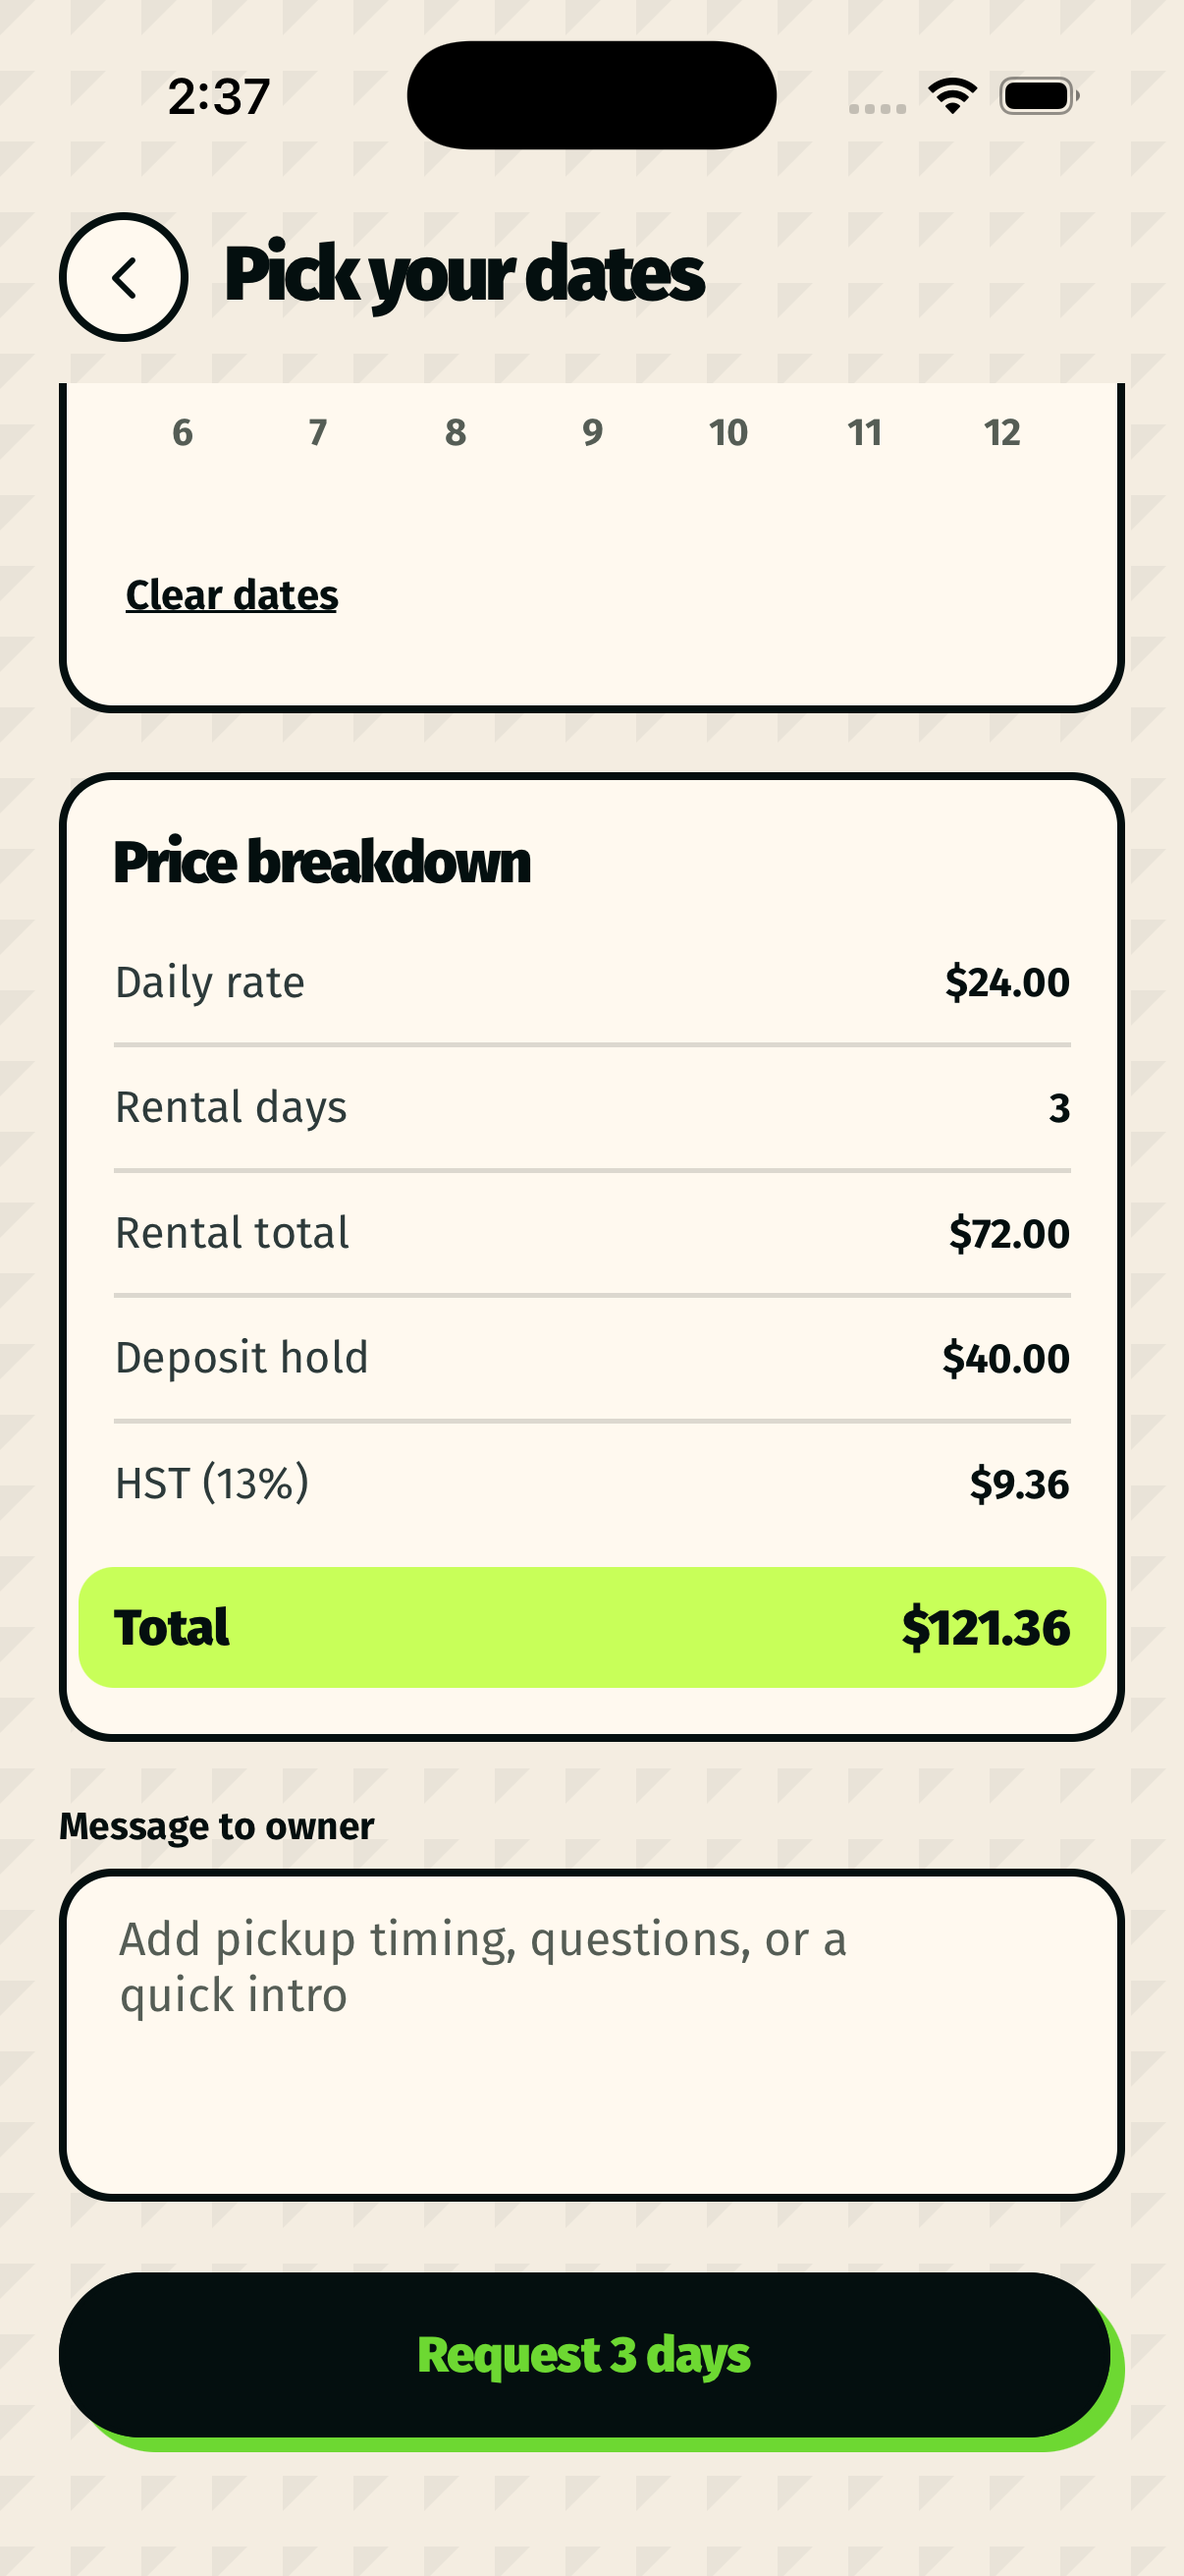
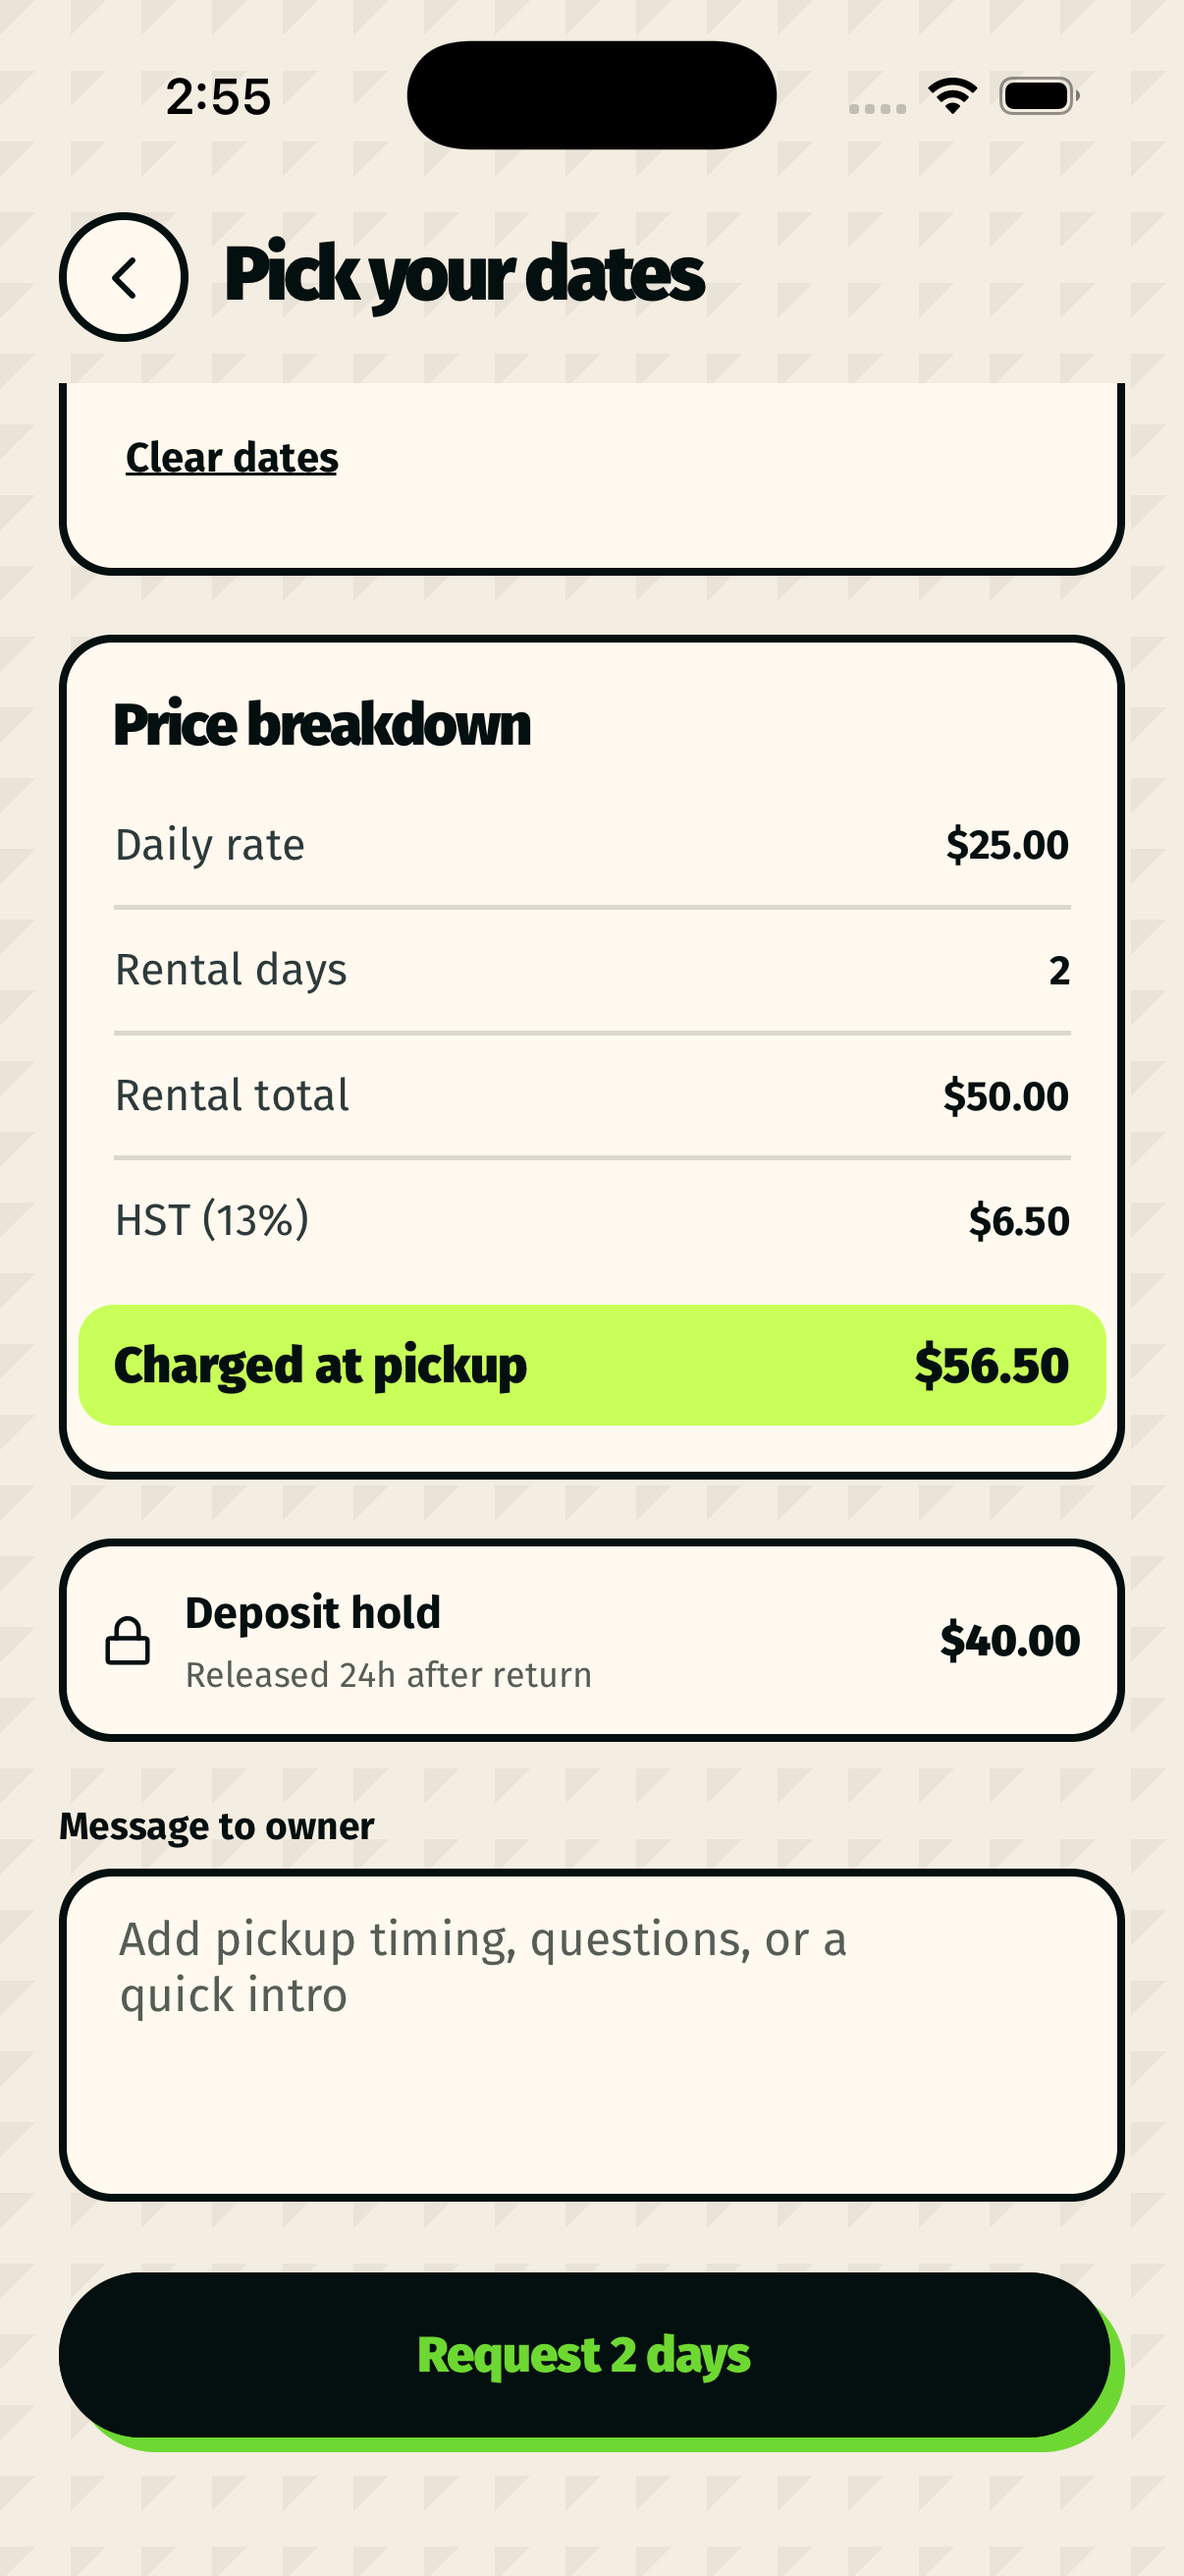
design: pin listing nav; split deposit from request total
Listing detail: back/share/photo counter move to a bar pinned above the
scroll view (taps can't reach the hero photo); it fades to a surface
background with an ink border once the hero scrolls away (Animated
scroll value via Screen's new scrollY prop). Request: the breakdown
totals rent + HST as "Charged at pickup", like Checkout; the deposit
is its own row and no longer added in. DEPOSIT_HOLD_HOURS now lives in
@zoink/shared; the backend re-exports it and Pay/Request import it.

diff --git a/frontend/src/screens/ListingDetailScreen.tsx b/frontend/src/screens/ListingDetailScreen.tsx
@@ -1,7 +1,8 @@
-import React, { useCallback, useEffect, useState } from 'react'
+import React, { useCallback, useEffect, useRef, useState } from 'react'
 import {
   ActivityIndicator,
   Alert,
+  Animated,
   FlatList,
   Image,
   Pressable,
@@ -63,6 +64,7 @@ export default function ListingDetailScreen() {
   const [loading, setLoading] = useState(true)
   const [toggling, setToggling] = useState(false)
   const [activeImg, setActiveImg] = useState(0)
+  const scrollY = useRef(new Animated.Value(0)).current
 
   const isOwner = listing?.ownerId === user?.id
 
@@ -215,31 +217,47 @@ export default function ListingDetailScreen() {
         </View>
       )}
 
-      <View style={[styles.heroControls, { top: insets.top + space.sm }]} pointerEvents="box-none">
-        <IconButton
-          accessibilityLabel="Go back"
-          onPress={() => {
-            Haptics.impactAsync(Haptics.ImpactFeedbackStyle.Light).catch(() => {})
-            nav.goBack()
-          }}
-        >
-          <Feather name="chevron-left" size={24} color={colors.ink} />
-        </IconButton>
-        <View style={styles.heroRight} pointerEvents="box-none">
-          {photos.length > 1 ? (
-            <Badge label={`${activeImg + 1} of ${photos.length} photos`} variant="surface" size={13} />
-          ) : null}
+    </View>
+  )
+
+  // Back/share stay pinned above the scroll. Over the photo the bar is
+  // transparent; once the hero has scrolled away it fades to a surface
+  // background with an ink border so the buttons stay legible over text.
+  const barHeight = insets.top + space.sm + 44 + space.sm
+  const barBackground = scrollY.interpolate({
+    inputRange: [heroHeight - barHeight - 40, heroHeight - barHeight],
+    outputRange: [0, 1],
+    extrapolate: 'clamp',
+  })
+
+  const navBar = (
+    <View style={[styles.navBar, { height: barHeight }]} pointerEvents="box-none">
+      <Animated.View pointerEvents="none" style={[styles.navBarBackground, { opacity: barBackground }]} />
+        <View style={[styles.navRow, { top: insets.top + space.sm }]} pointerEvents="box-none">
           <IconButton
-            accessibilityLabel="Share this listing"
+            accessibilityLabel="Go back"
             onPress={() => {
               Haptics.impactAsync(Haptics.ImpactFeedbackStyle.Light).catch(() => {})
-              handleShare()
+              nav.goBack()
             }}
           >
-            <Feather name="share" size={18} color={colors.ink} />
+            <Feather name="chevron-left" size={24} color={colors.ink} />
           </IconButton>
+          <View style={styles.heroRight} pointerEvents="box-none">
+            {photos.length > 1 ? (
+              <Badge label={`${activeImg + 1} of ${photos.length} photos`} variant="surface" size={13} />
+            ) : null}
+            <IconButton
+              accessibilityLabel="Share this listing"
+              onPress={() => {
+                Haptics.impactAsync(Haptics.ImpactFeedbackStyle.Light).catch(() => {})
+                handleShare()
+              }}
+            >
+              <Feather name="share" size={18} color={colors.ink} />
+            </IconButton>
+          </View>
         </View>
-      </View>
     </View>
   )
 
@@ -259,7 +277,8 @@ export default function ListingDetailScreen() {
   ) : undefined
 
   return (
-    <Screen edgeToEdgeTop contentStyle={styles.screenContent} footer={footer}>
+    <View style={styles.root}>
+    <Screen edgeToEdgeTop scrollY={scrollY} contentStyle={styles.screenContent} footer={footer}>
       {hero}
 
       <View style={styles.body}>
@@ -354,6 +373,8 @@ export default function ListingDetailScreen() {
         )}
       </View>
     </Screen>
+    {navBar}
+    </View>
   )
 }
 
@@ -375,7 +396,22 @@ const styles = StyleSheet.create({
   noPhotoThumb: {
     borderRadius: 30,
   },
-  heroControls: {
+  root: {
+    flex: 1,
+  },
+  navBar: {
+    position: 'absolute',
+    top: 0,
+    left: 0,
+    right: 0,
+  },
+  navBarBackground: {
+    ...StyleSheet.absoluteFillObject,
+    backgroundColor: colors.surface,
+    borderBottomWidth: border.base,
+    borderBottomColor: colors.ink,
+  },
+  navRow: {
     position: 'absolute',
     left: space.xxl,
     right: space.xxl,

diff --git a/frontend/src/screens/BookingRequestScreen.tsx b/frontend/src/screens/BookingRequestScreen.tsx
@@ -6,6 +6,7 @@ import { NativeStackNavigationProp } from '@react-navigation/native-stack'
 import { RootStackParamList } from '../navigation'
 import { getListing } from '../services/listingsApi'
 import { createBooking } from '../services/bookingsApi'
+import { DEPOSIT_HOLD_HOURS } from '@zoink/shared'
 import { Listing } from '../types'
 import { colors } from '../theme/colors'
 import { border, radius, space } from '../theme/tokens'
@@ -385,13 +386,25 @@ export default function BookingRequestScreen() {
               { label: 'Daily rate', value: `$${Number(listing.dailyPrice).toFixed(2)}` },
               { label: 'Rental days', value: rentalDays > 0 ? `${rentalDays}` : '—' },
               { label: 'Rental total', value: `$${totalPrice.toFixed(2)}` },
-              { label: 'Deposit hold', value: `$${depositAmount.toFixed(2)}` },
               { label: 'HST (13%)', value: `$${hstAmount.toFixed(2)}` },
             ]}
-            total={{ label: 'Total', value: `$${(totalPrice + depositAmount + hstAmount).toFixed(2)}` }}
+            // Same split as Checkout: rent + HST is what's captured at pickup;
+            // the deposit is a separate hold, never part of this total.
+            total={{ label: 'Charged at pickup', value: `$${(totalPrice + hstAmount).toFixed(2)}` }}
             highlight="lime"
           />
         </Card>
+
+        {depositAmount > 0 ? (
+          <Card shadow={false} padding={space.lg} contentStyle={styles.depositRow}>
+            <Feather name="lock" size={18} color={colors.ink} />
+            <View style={styles.depositText}>
+              <Text style={styles.depositLabel}>Deposit hold</Text>
+              <Text style={styles.depositNote}>Released {DEPOSIT_HOLD_HOURS}h after return</Text>
+            </View>
+            <Text style={styles.depositValue}>${depositAmount.toFixed(2)}</Text>
+          </Card>
+        ) : null}
 
         <TextField
           label="Message to owner"
@@ -532,6 +545,29 @@ const styles = StyleSheet.create({
   },
   dayTextSelected: {
     fontFamily: fonts.black,
+  },
+  depositRow: {
+    flexDirection: 'row',
+    alignItems: 'center',
+    gap: space.md,
+  },
+  depositText: {
+    flex: 1,
+    gap: 2,
+  },
+  depositLabel: {
+    ...type.bodySm,
+    fontFamily: fonts.bold,
+    color: colors.ink,
+  },
+  depositNote: {
+    ...type.caption,
+    color: colors.mutedAlt,
+  },
+  depositValue: {
+    ...type.bodySm,
+    fontFamily: fonts.black,
+    color: colors.ink,
   },
   breakdownCard: {
     gap: space.sm,

diff --git a/frontend/src/components/mockup/Screen.tsx b/frontend/src/components/mockup/Screen.tsx
@@ -1,5 +1,5 @@
 import React from 'react'
-import { KeyboardAvoidingView, Platform, ScrollView, StyleProp, StyleSheet, View, ViewStyle } from 'react-native'
+import { Animated, KeyboardAvoidingView, Platform, StyleProp, StyleSheet, View, ViewStyle } from 'react-native'
 import { StatusBar } from 'expo-status-bar'
 import { useSafeAreaInsets } from 'react-native-safe-area-context'
 import { colors } from '../../theme/colors'
@@ -16,6 +16,8 @@ type Props = {
   keyboardAvoiding?: boolean
   /** Content starts at the very top (under the status bar), e.g. a full-bleed hero. */
   edgeToEdgeTop?: boolean
+  /** Receives the scroll offset (native driver), for headers that react to scrolling. */
+  scrollY?: Animated.Value
   contentStyle?: StyleProp<ViewStyle>
 }
 
@@ -27,6 +29,7 @@ export default function Screen({
   scroll = true,
   keyboardAvoiding = false,
   edgeToEdgeTop = false,
+  scrollY,
   contentStyle,
 }: Props) {
   const insets = useSafeAreaInsets()
@@ -34,14 +37,16 @@ export default function Screen({
   const contentBottom = footer ? space.xxl : insets.bottom + space.xxl
 
   const content = scroll ? (
-    <ScrollView
+    <Animated.ScrollView
       style={styles.flex}
+      onScroll={scrollY ? Animated.event([{ nativeEvent: { contentOffset: { y: scrollY } } }], { useNativeDriver: true }) : undefined}
+      scrollEventThrottle={16}
       contentContainerStyle={[styles.content, { paddingBottom: contentBottom }, contentStyle]}
       keyboardShouldPersistTaps="handled"
       showsVerticalScrollIndicator={false}
     >
       {children}
-    </ScrollView>
+    </Animated.ScrollView>
   ) : (
     <View style={[styles.flex, styles.content, { paddingBottom: contentBottom }, contentStyle]}>{children}</View>
   )

diff --git a/frontend/src/screens/PayScreen.tsx b/frontend/src/screens/PayScreen.tsx
@@ -6,6 +6,7 @@ import { NativeStackNavigationProp } from '@react-navigation/native-stack'
 import { useStripe } from '@stripe/stripe-react-native'
 import { RootStackParamList } from '../navigation'
 import { confirmBookingPayment, createBookingPaymentIntent, getBooking } from '../services/bookingsApi'
+import { DEPOSIT_HOLD_HOURS } from '@zoink/shared'
 import { Booking, BookingStatus } from '../types'
 import { isStripePublishableKeyConfigured } from '../config/stripe'
 import { formatLongDate } from '../utils/formatDate'
@@ -22,11 +23,6 @@ import PriceTable, { PriceRow } from '../components/mockup/PriceTable'
 
 type Nav = NativeStackNavigationProp<RootStackParamList>
 type ScreenRoute = RouteProp<RootStackParamList, 'Pay'>
-
-// Mirrors DEPOSIT_HOLD_HOURS in backend/src/config/bookingWindows.ts (released
-// by cleanupJob.releaseDueDeposits once a completed booking has no open
-// dispute) — keep in sync. Copy only; nothing here schedules the release.
-const DEPOSIT_HOLD_HOURS = 24
 
 // "Pay $X + hold $Y" fits at 17px on a 375pt phone up to about this many
 // characters; longer labels drop to 15 instead of wrapping.

diff --git a/backend/src/config/bookingWindows.ts b/backend/src/config/bookingWindows.ts
@@ -9,8 +9,9 @@
 
 // How long after a booking completes before its deposit auto-releases with
 // no dispute filed (see cleanupJob.releaseDueDeposits, disputeService's
-// DISPUTE_WINDOW_HOURS).
-export const DEPOSIT_HOLD_HOURS = 24
+// DISPUTE_WINDOW_HOURS). Defined in @zoink/shared so the app's copy quotes
+// the same number.
+export { DEPOSIT_HOLD_HOURS } from '@zoink/shared'
 
 // How long after a booking completes before the owner's payout is released
 // (see cleanupJob.releaseDuePayouts).

diff --git a/packages/shared/src/bookingWindows.ts b/packages/shared/src/bookingWindows.ts
@@ -1,0 +1,7 @@
+// Contract terms shared by the backend (which enforces them) and the app (which
+// quotes them in copy). See backend/src/config/bookingWindows.ts for why these
+// are fixed values, not env vars, and what changing one requires.
+
+// How long after a booking completes before its deposit auto-releases with
+// no dispute filed (see backend cleanupJob.releaseDueDeposits).
+export const DEPOSIT_HOLD_HOURS = 24

diff --git a/packages/shared/src/index.ts b/packages/shared/src/index.ts
@@ -2,3 +2,4 @@ export * from '../generated/prisma-models'
 export * from './dto'
 export * from '../legal'
 export * from './universities'
+export * from './bookingWindows'
